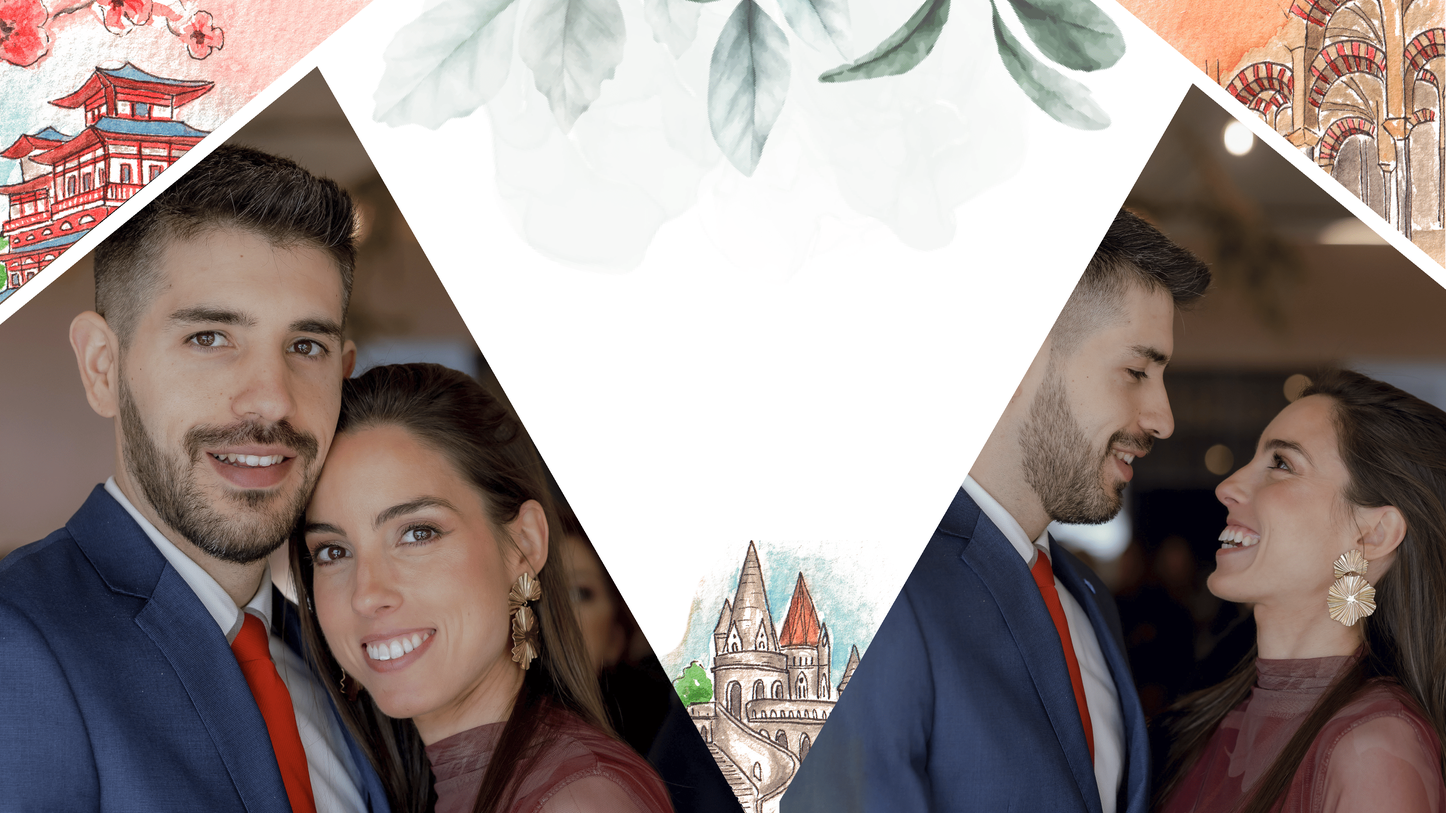
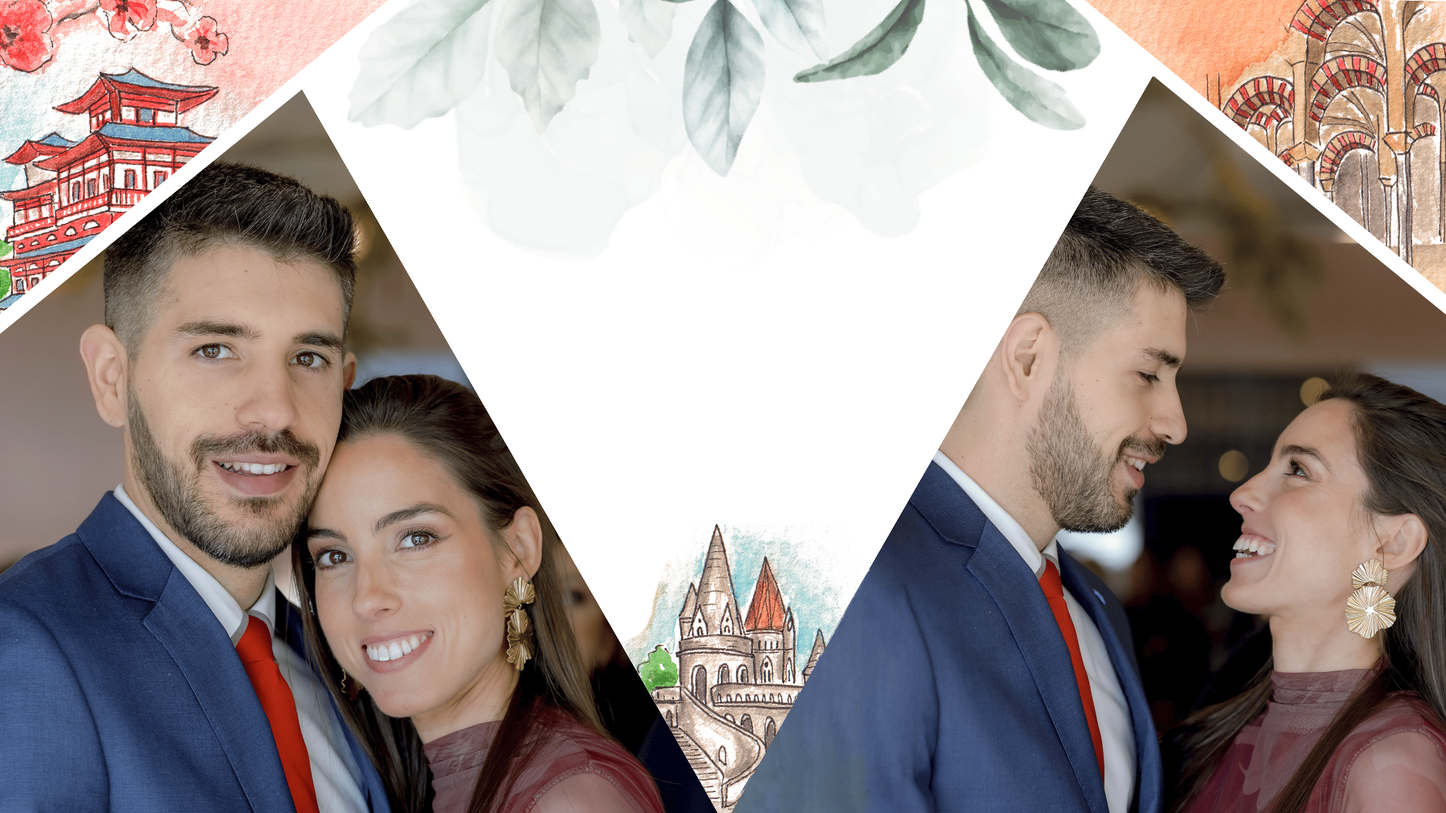
cambios diseño

diff --git a/src/components/WeddingHero.tsx b/src/components/WeddingHero.tsx
@@ -1,6 +1,5 @@
 import { Button } from "@/components/ui/button";
-import { Heart, Calendar } from "lucide-react";
-import heroImage from "@/assets/wedding-hero.jpg";
+import heroImageMobile from "@/assets/cabecera-mobile.png";
 import heroImage1 from "@/assets/cabecera.png";
 import logo from "@/assets/logo.png";
 
@@ -15,37 +14,66 @@ export const WeddingHero = () => {
           zIndex:1
         }}
       >
+        {/* Imagen para móvil que se superpone */}
+        <div 
+          className="absolute inset-0 bg-cover bg-center bg-no-repeat md:hidden"
+          style={{
+            backgroundImage: `url(${heroImageMobile})`,
+          }}
+        />
         <div className="absolute inset-0 bg-gradient-to-b from-black/20 via-transparent to-black/40" />
       </div>
       
       {/* Content */}
-      <div className="relative z-10 text-center px-4 max-w-4xl mx-auto">
-        <div className="mb-8 animate-in fade-in slide-in-from-bottom-4 duration-1000">
-          <img src={logo} alt="Wedding Hero" className="max-w-xs w-full h-auto mb-6 mx-auto animate-pulse" />
-          <div className="w-32 h-px bg-gradient-to-r from-transparent via-gold to-transparent mx-auto mb-6" />
-         
-        </div>
-        
-        <div className="mb-12 animate-in fade-in slide-in-from-bottom-4 duration-1000 delay-300">
-          <div className="flex items-center justify-center ">
-            
-            <span className="text-3xl font-light text-stone-600">21 de febrero de 2026</span>
-          </div>
-        </div>
-        
-        <div className="flex flex-col sm:flex-row gap-4 justify-center animate-in fade-in slide-in-from-bottom-4 duration-1000 delay-500">
-          <Button  size="xl" 
-            className="group uppercase rounded-none text-stone-600"
+<div className="relative z-10 text-center px-4 max-w-4xl mx-auto">
+  {/* Layout móvil */}
+  <div className="md:hidden flex flex-col justify-end min-h-screen pb-16">
+    <div className="">
+      <img src={logo} alt="Wedding Hero" 
+           className="max-w-xs w-full h-auto mb-4 mx-auto animate-pulse" />
+      <div className="w-20 h-px bg-gradient-to-r from-transparent via-gold to-transparent mx-auto mb-4" />
+    </div>
+    
+    <div className="mb-12 ">
+      <span className="text-xl font-light text-stone-600">21 de febrero de 2026</span>
+    </div>
+    
+    <Button size="lg" 
+            className="mb-5 group uppercase rounded-none text-stone-600 w-full max-w-sm mx-auto"
             onClick={() => {
               document.getElementById("confirmation")?.scrollIntoView({ behavior: "smooth" });
             }}>
-            Confirma tu asistencia
-          </Button>
-        </div>
+      Confirma tu asistencia
+    </Button>
+  </div>
+
+  {/* Layout desktop */}
+  <div className="hidden md:block">
+    <div className="mb-8 animate-in fade-in slide-in-from-bottom-4 duration-1000">
+      <img src={logo} alt="Wedding Hero" className="max-w-xs w-full h-auto mb-6 mx-auto animate-pulse" />
+      <div className="w-32 h-px bg-gradient-to-r from-transparent via-gold to-transparent mx-auto mb-6" />
+    </div>
+    
+    <div className="mb-12 animate-in fade-in slide-in-from-bottom-4 duration-1000 delay-300">
+      <div className="flex items-center justify-center">
+        <span className="text-3xl font-light text-stone-600">21 de febrero de 2026</span>
       </div>
+    </div>
+    
+    <div className="flex flex-col sm:flex-row gap-4 justify-center animate-in fade-in slide-in-from-bottom-4 duration-1000 delay-500">
+      <Button size="xl" 
+              className="group uppercase rounded-none text-stone-600"
+              onClick={() => {
+                document.getElementById("confirmation")?.scrollIntoView({ behavior: "smooth" });
+              }}>
+        Confirma tu asistencia
+      </Button>
+    </div>
+  </div>
+</div>
 
       <div className="absolute bottom-8 left-1/2 -translate-x-1/2 flex flex-col items-center z-20">
-        <span className="animate-bounce cursor-pointer transition-transform hover:scale-110"
+        <span className="animate-bounce cursor-pointer transition-transform"
           onClick={() => {
           document.getElementById("wedding-details")?.scrollIntoView({ behavior: "smooth" });
         }}>

diff --git a/src/components/WeddingDetails.tsx b/src/components/WeddingDetails.tsx
@@ -1,9 +1,10 @@
-import { Card, CardContent, CardDescription, CardHeader, CardTitle } from "@/components/ui/card";
-import { MapPin, Clock, Camera, Music, Gift, CirclePlus } from "lucide-react";
-import tailandia from "@/assets/Tailandia.png";
+import { Card, CardContent, CardHeader, CardTitle } from "@/components/ui/card";
+import { MapPin, Camera, Music, Gift, CirclePlus } from "lucide-react";
 import { Button } from "@/components/ui/button";
 import { MapDialog } from "@/components/MapDialog";
 import { useState } from "react";
+import { Popover, PopoverTrigger } from "./ui/popover";
+import { PopoverContent } from "@radix-ui/react-popover";
 
 export const WeddingDetails = () => {
   const [selectedLocation, setSelectedLocation] = useState<{
@@ -159,14 +160,45 @@ export const WeddingDetails = () => {
               <div className="h-5"></div>
               <div className="">
                 <p className="text-lg text-muted-foreground leading-relaxed text-center text-stone-800">
-                  Pondremos autobuses de la Iglesia a la finca para que solo os ocupéis de disfrutar al máximo. La vuelta se hará en un solo turno con destino Móstoles y Moncloa.
+                  Pondremos autobuses de la Iglesia a la finca para que solo os preocupéis de disfrutar al máximo. La vuelta se hará en un solo turno con destino Móstoles y Moncloa al finalizar la fiesta.
                 </p>
                 <br/>
                 <p className="text-lg text-muted-foreground leading-relaxed text-center">
                   ¿Necesitas autobús para ir de Móstoles a la Iglesia?
                 </p>
                 <div className="flex items-center justify-center">
-                  <CirclePlus className="flex-shrink-0  text-stone-400"/>
+                  
+                  <Popover>
+                    <PopoverTrigger>
+                      <CirclePlus className="flex-shrink-0  text-stone-400"/>
+                    </PopoverTrigger>
+                    <PopoverContent side="top" className="bg-popover text-popover-foreground border shadow-md p-5 mb-3">
+                      <div className="space-y-2 bg-white">
+                        <p className="text-sm text-muted-foreground text-center">
+                          En función de la cantidad de invitados que necesiten el
+                        </p>
+                        <p className="text-sm text-muted-foreground text-center">
+                          traslado desde Móstoles a la iglesia habilitaremos este autobús.
+                          </p>
+                        <br/>
+                        <p className="text-sm text-muted-foreground text-center">
+                          Haznos saber en el formulario de confirmación si necesitas
+                        </p>
+                        <p className="text-sm text-muted-foreground text-center">
+                          este transporte indicando salida desde Móstoles. 
+                        </p>
+                        <br/>
+                        <p className="text-sm text-muted-foreground text-center">
+                         Os confirmaremos con suficiente antelación si finalmente dispondremos de 
+                        </p>
+                        <p className="text-sm text-muted-foreground text-center">
+                        este transporte o no. 
+                        </p>
+
+                      </div>
+                    </PopoverContent>
+                    
+                  </Popover>
                 </div>
                 
               </div>

diff --git a/src/pages/Index.tsx b/src/pages/Index.tsx
@@ -55,7 +55,7 @@ const Index = () => {
             </div>
             <div className="flex-1 h-px bg-gray-300"></div>
           </div>
-          <div className="text-center items-center justify-center">
+          <div className="text-center items-center justify-center sm:mx-10">
             <p className="text-xl">
               Pero si queréis tener un detalle con nosotros para esta nueva etapa, os dejamos el número de cuenta:
             </p>

diff --git a/src/components/RSVPForm.tsx b/src/components/RSVPForm.tsx
@@ -489,7 +489,7 @@ export const RSVPForm = () => {
       </div>
       <div className="max-w-4xl mx-auto ">
         
-        <div className="text-center mb-12">
+        <div className="text-center mb-12 sm:mx-6">
           <p className="text-lg text-muted-foreground mx-auto text-stone-700">
             Escribe tu nombre y apellido. Si vas en pareja o familia, aparecerán los datos de todos para confirmar asistencia a la vez.
           </p>
